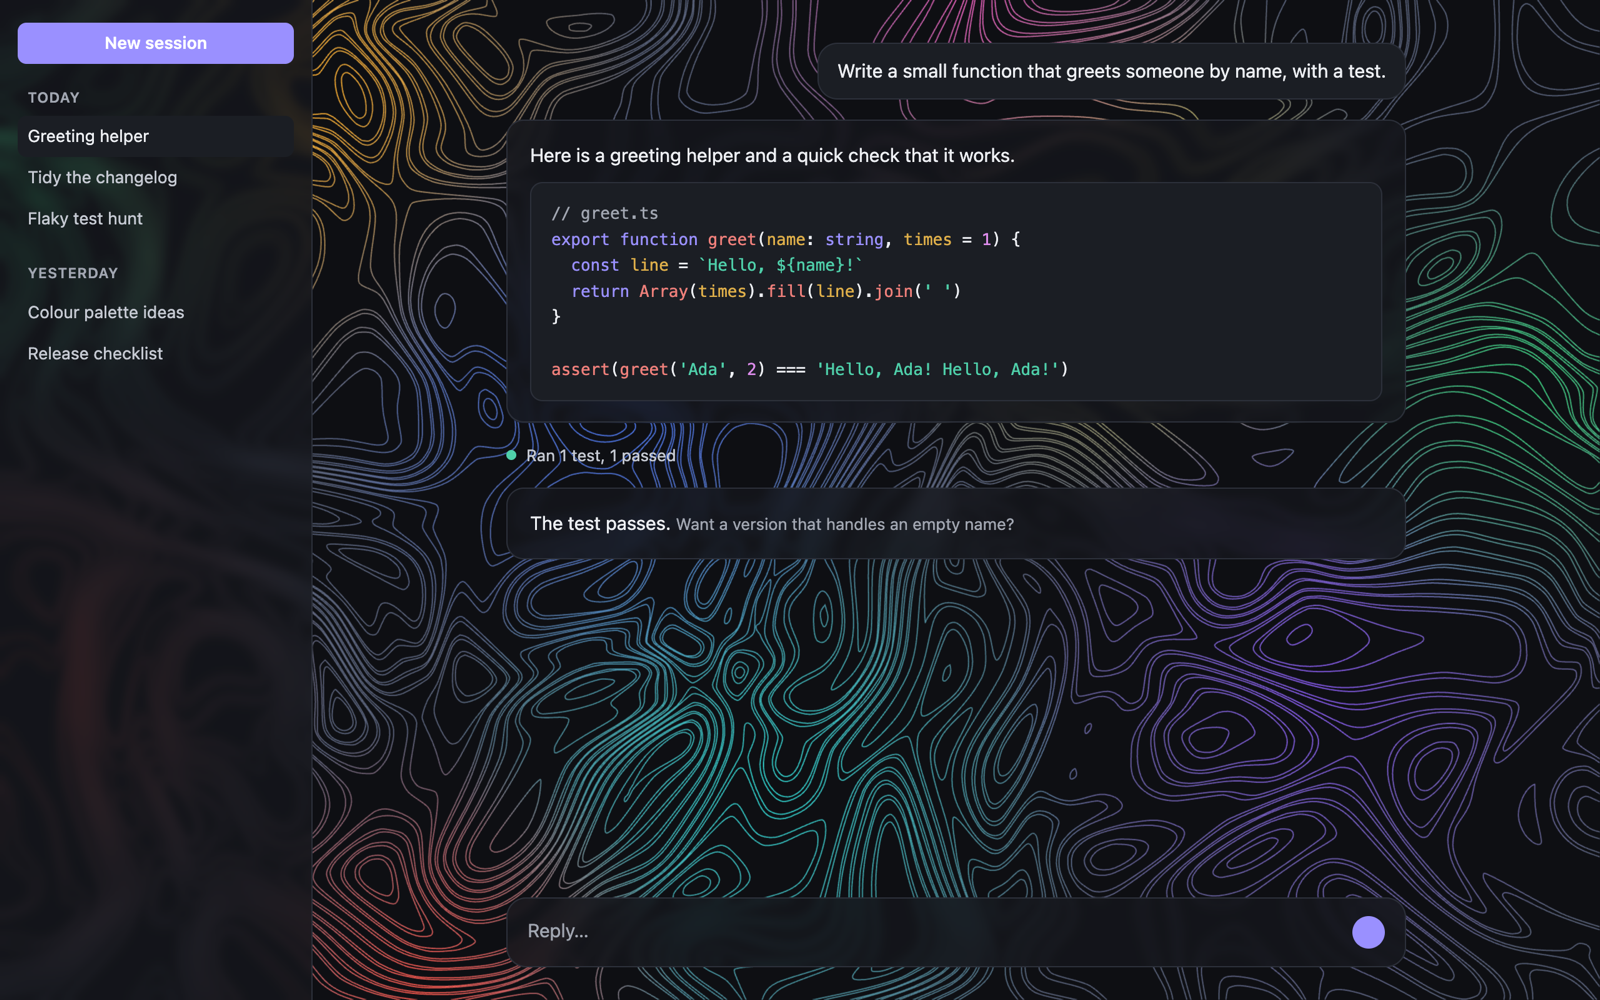
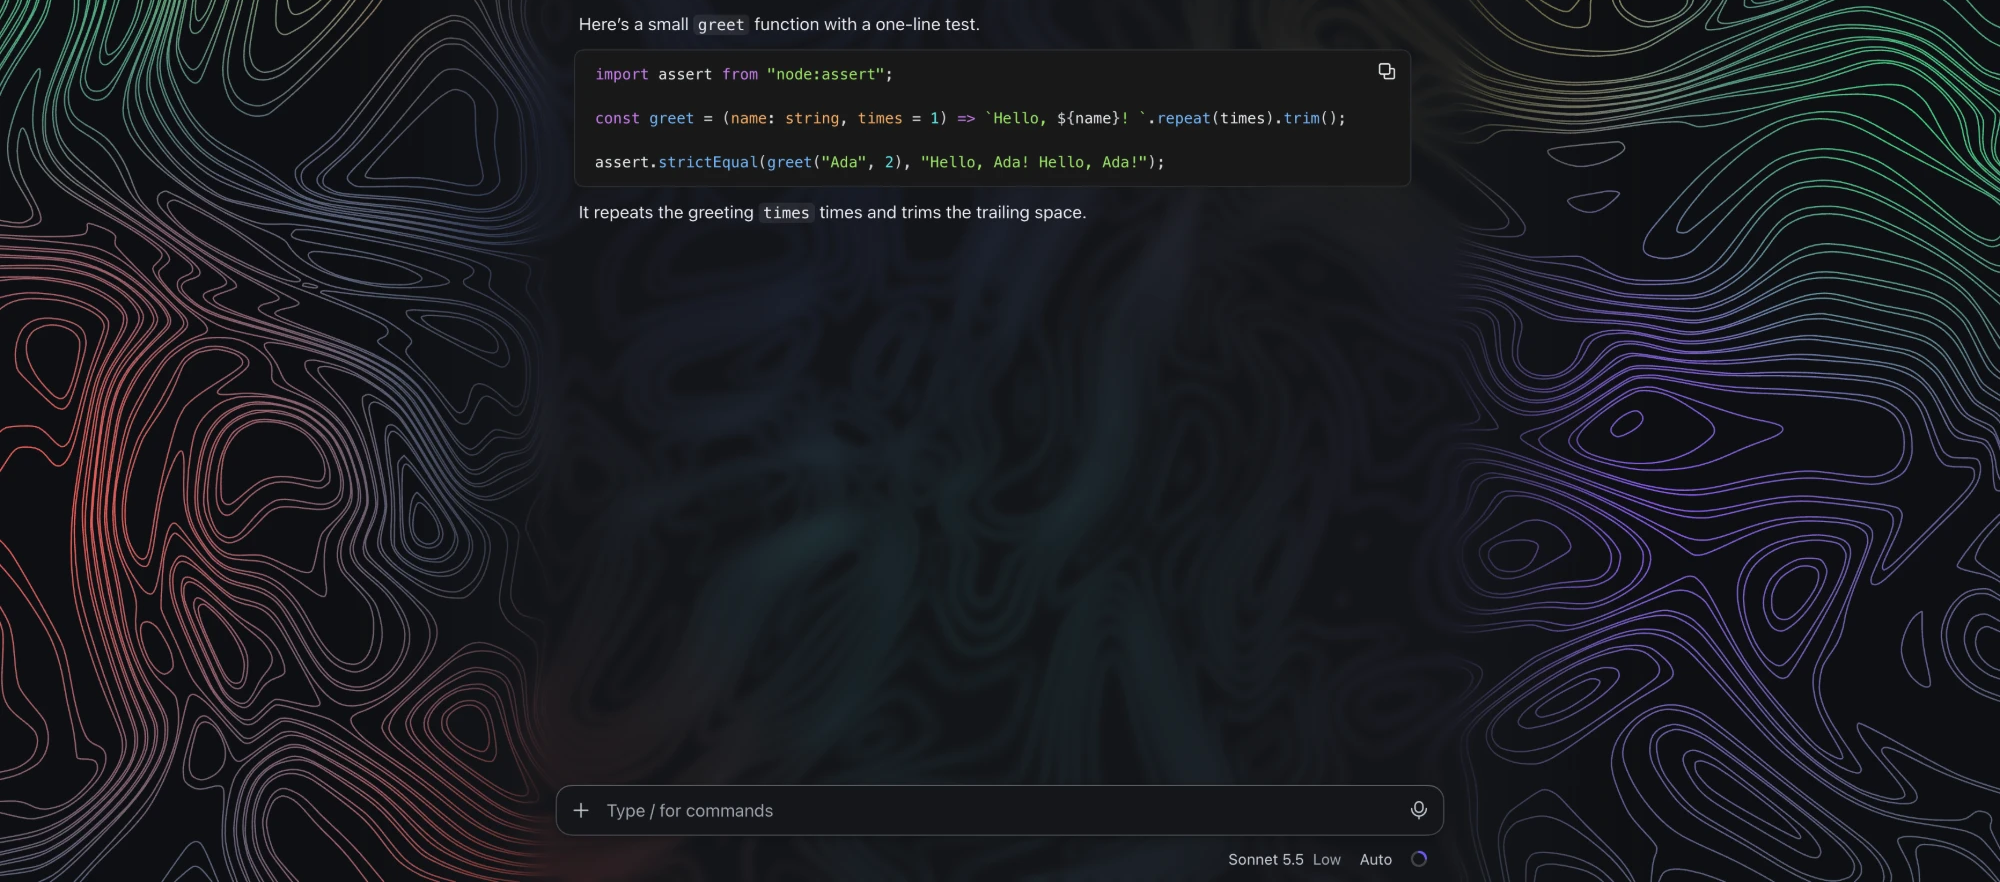
Replace mock-up images with real screenshots

diff --git a/README.md b/README.md
@@ -2,11 +2,9 @@
 
 A theme for Claude: a pearl-white page covered in fine Damascus contour lines that carry a slow prismatic sheen. In dark mode the same lines become glowing foil on near-black.
 
-| Light | Dark |
-|---|---|
-| ![Holo Damascus in light mode](docs/light.png) | ![Holo Damascus in dark mode](docs/dark.png) |
+![Holo Damascus in light mode](docs/light.png)
 
-*Mock-ups with sample text: the backdrop and colours are the theme's own, the window around them is a stand-in for the app.*
+![Holo Damascus in dark mode](docs/dark.png)
 
 It themes the Claude desktop and mobile apps (colours, code highlighting accents and an animated backdrop). The terminal draws no theme, so nothing changes there.
 
@@ -42,7 +40,7 @@ The line pattern is generated, not drawn by hand. For a different swirl, run the
 node tools/gen.js 42
 ```
 
-It rewrites `hooks/scene.ts`. `node tools/preview.js` then redraws the images above (needs Google Chrome). The knobs at the top of `tools/gen.js` set line spacing, the gap inside each pair of lines, feature size and how hard the pattern folds. Colours are in `hooks/register.tsx`, and `glass.opacity` there sets how much of the pattern shows through panels.
+It rewrites `hooks/scene.ts`. The knobs at the top of `tools/gen.js` set line spacing, the gap inside each pair of lines, feature size and how hard the pattern folds. Colours are in `hooks/register.tsx`, and `glass.opacity` there sets how much of the pattern shows through panels.
 
 ## Licence
 
